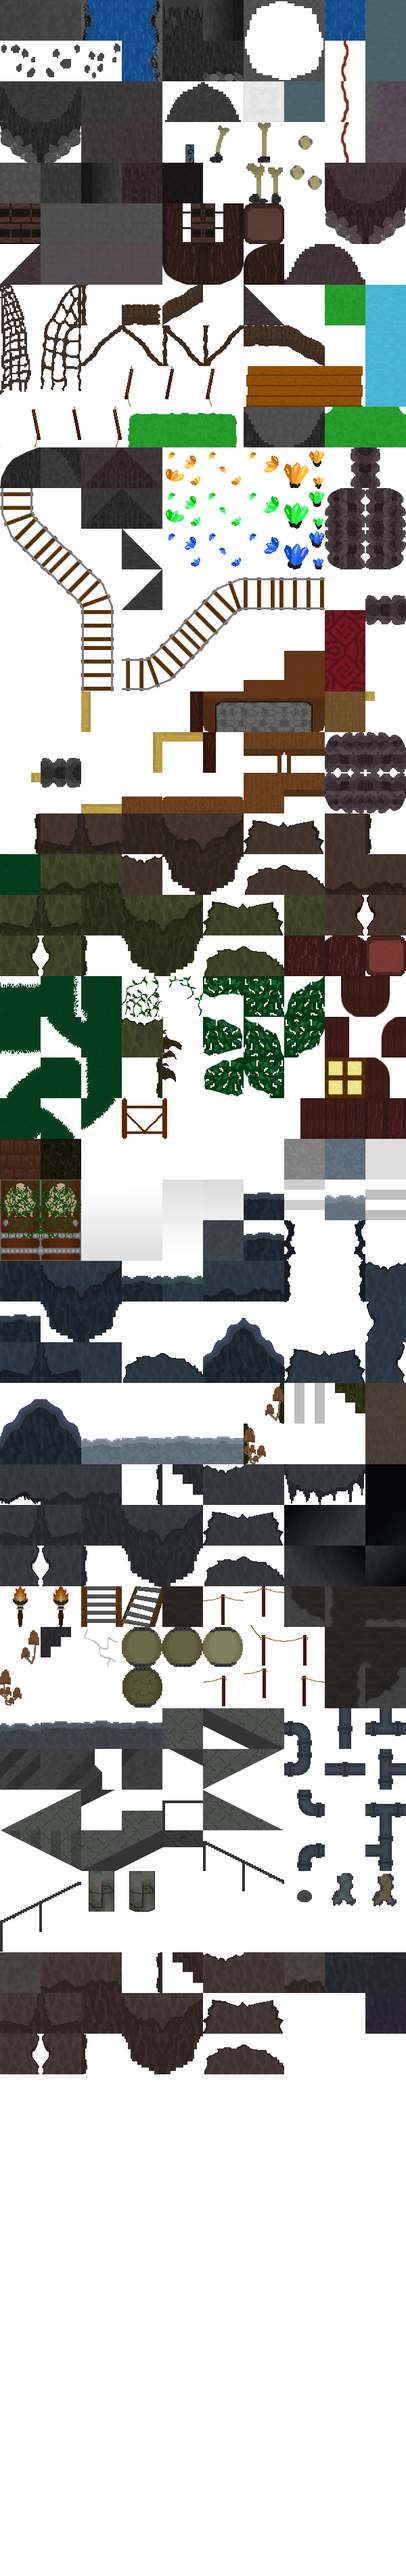
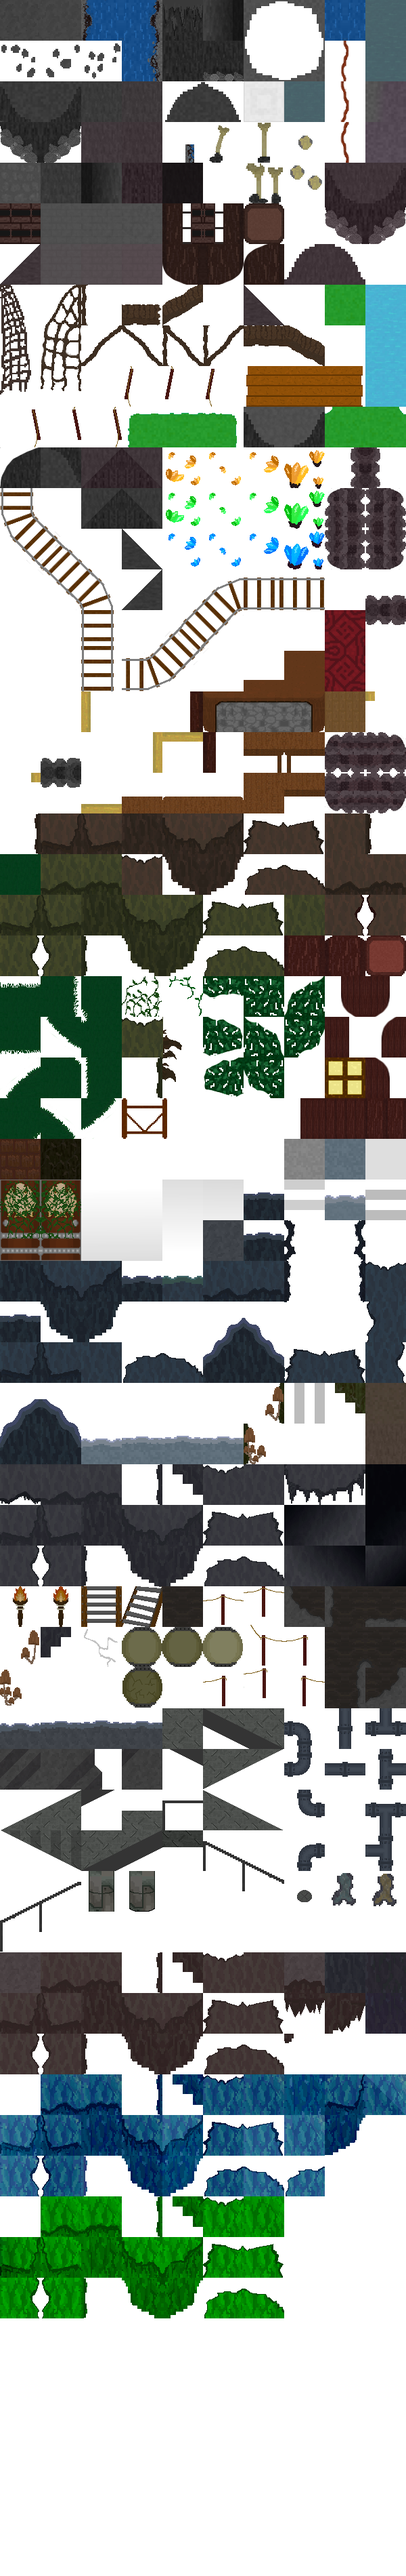
added the blue crystalline bit to caves!

Changed region(s): [[0.0, 0.7763, 1.0, 0.9005], [0.72, 0.1863, 0.75, 0.2174], [0.66, 0.1863, 0.69, 0.2174]]

diff --git a/gamedata/areadata.js b/gamedata/areadata.js
@@ -12046,7 +12046,7 @@ caves: {
 		pathTiles: [],
 		waterTiles: [28, 10, 20],
 		lightEmitTiles: [{tile: 391, brightness: 0.8, radius: 150},
-			{tile: 406, brightness: 0.9, radius: 500}, {tile: 405, brightness: 0.5, radius: 100}
+			{tile: 406, brightness: 0.9, radius: 500}, {tile: 405, brightness: 0.5, radius: 100}, {tile: 517, brightness: 0.8, radius: 120},
 		],
 		animateTiles: [
 			{
